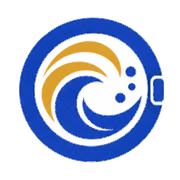
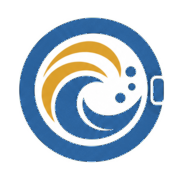
Theme: midnight and starlight (Apple-style) replaces blue and orange
Calm blue (#3A6EA5) for actions and the price, midnight header, footer and dark bands,
a warm starlight page, soft sky accents on midnight. Inter replaces Poppins for headlines.
Pill buttons without glow; phone buttons midnight. Logo, icons and share image recoloured
from the original files to the calm blue.

Changed region(s): [[0.1111, 0.0833, 0.9167, 0.9167], [0.6944, 0.3611, 0.7778, 0.5], [0.6389, 0.5, 0.6944, 0.5833]]

diff --git a/src/widgets/machine-showcase/parts.ts b/src/widgets/machine-showcase/parts.ts
@@ -9,34 +9,34 @@ export type PartId = "FW" | "FD" | "TW" | "TD" | "OP" | "GH" | "SW" | "SD";
 export const MACHINE_PARTS: Record<PartId, { viewBox: string; markup: string }> = {
   "FW": {
     "viewBox": "22 178 176 278",
-    "markup": "<rect x=\"44\" y=\"442\" width=\"22\" height=\"10\" rx=\"3\" fill=\"#2357D8\"/><rect x=\"154\" y=\"442\" width=\"22\" height=\"10\" rx=\"3\" fill=\"#2357D8\"/><path d=\"M26 210L38 182H182L194 210Z\" fill=\"#E3ECFF\" stroke=\"#2357D8\" stroke-width=\"6\" stroke-linejoin=\"round\"/><path d=\"M26 210 H194  V432 A12 12 0 0 1 182 444 H38 A12 12 0 0 1 26 432 V210  Z\" fill=\"#FFFFFF\" stroke=\"#2357D8\" stroke-width=\"6\" stroke-linejoin=\"round\"/><path d=\"M26 256H194\" fill=\"none\" stroke=\"#2357D8\" stroke-width=\"5\" stroke-linecap=\"round\"/><rect x=\"40\" y=\"222\" width=\"50\" height=\"22\" rx=\"5\" fill=\"#FFFFFF\" stroke=\"#2357D8\" stroke-width=\"4\"/><circle cx=\"120\" cy=\"233\" r=\"4\" fill=\"#2357D8\"/><circle cx=\"136\" cy=\"233\" r=\"4\" fill=\"#2357D8\"/><circle cx=\"164\" cy=\"233\" r=\"12\" fill=\"#FFC93C\" stroke=\"#2357D8\" stroke-width=\"4\"/><path d=\"M164 233V225\" stroke=\"#2357D8\" stroke-width=\"4\" stroke-linecap=\"round\"/><circle cx=\"110\" cy=\"350\" r=\"64\" fill=\"#FFFFFF\" stroke=\"#2357D8\" stroke-width=\"6\"/><circle cx=\"110\" cy=\"350\" r=\"55\" fill=\"none\" stroke=\"#FFC93C\" stroke-width=\"7\"/><circle cx=\"110\" cy=\"350\" r=\"45\" fill=\"#E3ECFF\"/><path d=\"M65.3 355.4Q76.5 345.4 87.7 355.4Q98.8 365.4 110 355.4Q121.2 345.4 132.3 355.4Q143.5 365.4 154.7 355.4A45 45 0 0 1 65.3 355.4Z\" fill=\"#C3D5FF\"/><circle cx=\"110\" cy=\"350\" r=\"45\" fill=\"none\" stroke=\"#2357D8\" stroke-width=\"4\"/><path d=\"M76.2 337.7A36 36 0 0 1 94.8 317.4\" fill=\"none\" stroke=\"#FFFFFF\" stroke-width=\"5\" stroke-linecap=\"round\"/>"
+    "markup": "<rect x=\"44\" y=\"442\" width=\"22\" height=\"10\" rx=\"3\" fill=\"#3A6EA5\"/><rect x=\"154\" y=\"442\" width=\"22\" height=\"10\" rx=\"3\" fill=\"#3A6EA5\"/><path d=\"M26 210L38 182H182L194 210Z\" fill=\"#E6EDF5\" stroke=\"#3A6EA5\" stroke-width=\"6\" stroke-linejoin=\"round\"/><path d=\"M26 210 H194  V432 A12 12 0 0 1 182 444 H38 A12 12 0 0 1 26 432 V210  Z\" fill=\"#FFFFFF\" stroke=\"#3A6EA5\" stroke-width=\"6\" stroke-linejoin=\"round\"/><path d=\"M26 256H194\" fill=\"none\" stroke=\"#3A6EA5\" stroke-width=\"5\" stroke-linecap=\"round\"/><rect x=\"40\" y=\"222\" width=\"50\" height=\"22\" rx=\"5\" fill=\"#FFFFFF\" stroke=\"#3A6EA5\" stroke-width=\"4\"/><circle cx=\"120\" cy=\"233\" r=\"4\" fill=\"#3A6EA5\"/><circle cx=\"136\" cy=\"233\" r=\"4\" fill=\"#3A6EA5\"/><circle cx=\"164\" cy=\"233\" r=\"12\" fill=\"#9CC3F5\" stroke=\"#3A6EA5\" stroke-width=\"4\"/><path d=\"M164 233V225\" stroke=\"#3A6EA5\" stroke-width=\"4\" stroke-linecap=\"round\"/><circle cx=\"110\" cy=\"350\" r=\"64\" fill=\"#FFFFFF\" stroke=\"#3A6EA5\" stroke-width=\"6\"/><circle cx=\"110\" cy=\"350\" r=\"55\" fill=\"none\" stroke=\"#9CC3F5\" stroke-width=\"7\"/><circle cx=\"110\" cy=\"350\" r=\"45\" fill=\"#E6EDF5\"/><path d=\"M65.3 355.4Q76.5 345.4 87.7 355.4Q98.8 365.4 110 355.4Q121.2 345.4 132.3 355.4Q143.5 365.4 154.7 355.4A45 45 0 0 1 65.3 355.4Z\" fill=\"#C9D8E8\"/><circle cx=\"110\" cy=\"350\" r=\"45\" fill=\"none\" stroke=\"#3A6EA5\" stroke-width=\"4\"/><path d=\"M76.2 337.7A36 36 0 0 1 94.8 317.4\" fill=\"none\" stroke=\"#FFFFFF\" stroke-width=\"5\" stroke-linecap=\"round\"/>"
   },
   "FD": {
     "viewBox": "202 178 176 278",
-    "markup": "<rect x=\"224\" y=\"442\" width=\"22\" height=\"10\" rx=\"3\" fill=\"#2357D8\"/><rect x=\"334\" y=\"442\" width=\"22\" height=\"10\" rx=\"3\" fill=\"#2357D8\"/><path d=\"M206 210L218 182H362L374 210Z\" fill=\"#E3ECFF\" stroke=\"#2357D8\" stroke-width=\"6\" stroke-linejoin=\"round\"/><path d=\"M206 210 H374  V432 A12 12 0 0 1 362 444 H218 A12 12 0 0 1 206 432 V210  Z\" fill=\"#FFFFFF\" stroke=\"#2357D8\" stroke-width=\"6\" stroke-linejoin=\"round\"/><path d=\"M206 256H374\" fill=\"none\" stroke=\"#2357D8\" stroke-width=\"5\" stroke-linecap=\"round\"/><rect x=\"220\" y=\"224\" width=\"44\" height=\"18\" rx=\"4\" fill=\"#E3ECFF\" stroke=\"#2357D8\" stroke-width=\"4\"/><circle cx=\"300\" cy=\"233\" r=\"4\" fill=\"#2357D8\"/><circle cx=\"316\" cy=\"233\" r=\"4\" fill=\"#2357D8\"/><circle cx=\"344\" cy=\"233\" r=\"12\" fill=\"#FFC93C\" stroke=\"#2357D8\" stroke-width=\"4\"/><path d=\"M344 233V225\" stroke=\"#2357D8\" stroke-width=\"4\" stroke-linecap=\"round\"/><circle cx=\"290\" cy=\"350\" r=\"64\" fill=\"#FFFFFF\" stroke=\"#2357D8\" stroke-width=\"6\"/><circle cx=\"290\" cy=\"350\" r=\"55\" fill=\"none\" stroke=\"#FFC93C\" stroke-width=\"7\"/><circle cx=\"290\" cy=\"350\" r=\"45\" fill=\"#E3ECFF\"/><circle cx=\"290\" cy=\"350\" r=\"45\" fill=\"none\" stroke=\"#2357D8\" stroke-width=\"4\"/><path d=\"M256.2 337.7A36 36 0 0 1 274.8 317.4\" fill=\"none\" stroke=\"#FFFFFF\" stroke-width=\"5\" stroke-linecap=\"round\"/>"
+    "markup": "<rect x=\"224\" y=\"442\" width=\"22\" height=\"10\" rx=\"3\" fill=\"#3A6EA5\"/><rect x=\"334\" y=\"442\" width=\"22\" height=\"10\" rx=\"3\" fill=\"#3A6EA5\"/><path d=\"M206 210L218 182H362L374 210Z\" fill=\"#E6EDF5\" stroke=\"#3A6EA5\" stroke-width=\"6\" stroke-linejoin=\"round\"/><path d=\"M206 210 H374  V432 A12 12 0 0 1 362 444 H218 A12 12 0 0 1 206 432 V210  Z\" fill=\"#FFFFFF\" stroke=\"#3A6EA5\" stroke-width=\"6\" stroke-linejoin=\"round\"/><path d=\"M206 256H374\" fill=\"none\" stroke=\"#3A6EA5\" stroke-width=\"5\" stroke-linecap=\"round\"/><rect x=\"220\" y=\"224\" width=\"44\" height=\"18\" rx=\"4\" fill=\"#E6EDF5\" stroke=\"#3A6EA5\" stroke-width=\"4\"/><circle cx=\"300\" cy=\"233\" r=\"4\" fill=\"#3A6EA5\"/><circle cx=\"316\" cy=\"233\" r=\"4\" fill=\"#3A6EA5\"/><circle cx=\"344\" cy=\"233\" r=\"12\" fill=\"#9CC3F5\" stroke=\"#3A6EA5\" stroke-width=\"4\"/><path d=\"M344 233V225\" stroke=\"#3A6EA5\" stroke-width=\"4\" stroke-linecap=\"round\"/><circle cx=\"290\" cy=\"350\" r=\"64\" fill=\"#FFFFFF\" stroke=\"#3A6EA5\" stroke-width=\"6\"/><circle cx=\"290\" cy=\"350\" r=\"55\" fill=\"none\" stroke=\"#9CC3F5\" stroke-width=\"7\"/><circle cx=\"290\" cy=\"350\" r=\"45\" fill=\"#E6EDF5\"/><circle cx=\"290\" cy=\"350\" r=\"45\" fill=\"none\" stroke=\"#3A6EA5\" stroke-width=\"4\"/><path d=\"M256.2 337.7A36 36 0 0 1 274.8 317.4\" fill=\"none\" stroke=\"#FFFFFF\" stroke-width=\"5\" stroke-linecap=\"round\"/>"
   },
   "TW": {
     "viewBox": "22 144 176 312",
-    "markup": "<rect x=\"44\" y=\"442\" width=\"22\" height=\"10\" rx=\"3\" fill=\"#2357D8\"/><rect x=\"154\" y=\"442\" width=\"22\" height=\"10\" rx=\"3\" fill=\"#2357D8\"/><path d=\"M38 202V158A10 10 0 0 1 48 148H172A10 10 0 0 1 182 158V202Z\" fill=\"#FFFFFF\" stroke=\"#2357D8\" stroke-width=\"6\" stroke-linejoin=\"round\"/><rect x=\"52\" y=\"166\" width=\"44\" height=\"18\" rx=\"4\" fill=\"#E3ECFF\" stroke=\"#2357D8\" stroke-width=\"4\"/><circle cx=\"120\" cy=\"175\" r=\"4\" fill=\"#2357D8\"/><circle cx=\"152\" cy=\"175\" r=\"12\" fill=\"#FFC93C\" stroke=\"#2357D8\" stroke-width=\"4\"/><path d=\"M152 175V167\" stroke=\"#2357D8\" stroke-width=\"4\" stroke-linecap=\"round\"/><path d=\"M26 232L38 202H182L194 232Z\" fill=\"#E3ECFF\" stroke=\"#2357D8\" stroke-width=\"6\" stroke-linejoin=\"round\"/><path d=\"M50 226L58 208H162L170 226Z\" fill=\"#FFFFFF\" stroke=\"#2357D8\" stroke-width=\"4\" stroke-linejoin=\"round\"/><rect x=\"94\" y=\"221\" width=\"32\" height=\"8\" rx=\"4\" fill=\"#FFC93C\" stroke=\"#2357D8\" stroke-width=\"3\"/><path d=\"M26 232 H194  V432 A12 12 0 0 1 182 444 H38 A12 12 0 0 1 26 432 V232  Z\" fill=\"#FFFFFF\" stroke=\"#2357D8\" stroke-width=\"6\" stroke-linejoin=\"round\"/><path d=\"M42 418H178\" fill=\"none\" stroke=\"#2357D8\" stroke-width=\"4\" stroke-linecap=\"round\"/>"
+    "markup": "<rect x=\"44\" y=\"442\" width=\"22\" height=\"10\" rx=\"3\" fill=\"#3A6EA5\"/><rect x=\"154\" y=\"442\" width=\"22\" height=\"10\" rx=\"3\" fill=\"#3A6EA5\"/><path d=\"M38 202V158A10 10 0 0 1 48 148H172A10 10 0 0 1 182 158V202Z\" fill=\"#FFFFFF\" stroke=\"#3A6EA5\" stroke-width=\"6\" stroke-linejoin=\"round\"/><rect x=\"52\" y=\"166\" width=\"44\" height=\"18\" rx=\"4\" fill=\"#E6EDF5\" stroke=\"#3A6EA5\" stroke-width=\"4\"/><circle cx=\"120\" cy=\"175\" r=\"4\" fill=\"#3A6EA5\"/><circle cx=\"152\" cy=\"175\" r=\"12\" fill=\"#9CC3F5\" stroke=\"#3A6EA5\" stroke-width=\"4\"/><path d=\"M152 175V167\" stroke=\"#3A6EA5\" stroke-width=\"4\" stroke-linecap=\"round\"/><path d=\"M26 232L38 202H182L194 232Z\" fill=\"#E6EDF5\" stroke=\"#3A6EA5\" stroke-width=\"6\" stroke-linejoin=\"round\"/><path d=\"M50 226L58 208H162L170 226Z\" fill=\"#FFFFFF\" stroke=\"#3A6EA5\" stroke-width=\"4\" stroke-linejoin=\"round\"/><rect x=\"94\" y=\"221\" width=\"32\" height=\"8\" rx=\"4\" fill=\"#9CC3F5\" stroke=\"#3A6EA5\" stroke-width=\"3\"/><path d=\"M26 232 H194  V432 A12 12 0 0 1 182 444 H38 A12 12 0 0 1 26 432 V232  Z\" fill=\"#FFFFFF\" stroke=\"#3A6EA5\" stroke-width=\"6\" stroke-linejoin=\"round\"/><path d=\"M42 418H178\" fill=\"none\" stroke=\"#3A6EA5\" stroke-width=\"4\" stroke-linecap=\"round\"/>"
   },
   "TD": {
     "viewBox": "202 144 176 312",
-    "markup": "<rect x=\"224\" y=\"442\" width=\"22\" height=\"10\" rx=\"3\" fill=\"#2357D8\"/><rect x=\"334\" y=\"442\" width=\"22\" height=\"10\" rx=\"3\" fill=\"#2357D8\"/><path d=\"M218 202V158A10 10 0 0 1 228 148H352A10 10 0 0 1 362 158V202Z\" fill=\"#FFFFFF\" stroke=\"#2357D8\" stroke-width=\"6\" stroke-linejoin=\"round\"/><circle cx=\"248\" cy=\"175\" r=\"12\" fill=\"#FFC93C\" stroke=\"#2357D8\" stroke-width=\"4\"/><path d=\"M248 175V167\" stroke=\"#2357D8\" stroke-width=\"4\" stroke-linecap=\"round\"/><circle cx=\"280\" cy=\"175\" r=\"4\" fill=\"#2357D8\"/><circle cx=\"296\" cy=\"175\" r=\"4\" fill=\"#2357D8\"/><path d=\"M206 232L218 202H362L374 232Z\" fill=\"#E3ECFF\" stroke=\"#2357D8\" stroke-width=\"6\" stroke-linejoin=\"round\"/><path d=\"M206 232 H374  V432 A12 12 0 0 1 362 444 H218 A12 12 0 0 1 206 432 V232  Z\" fill=\"#FFFFFF\" stroke=\"#2357D8\" stroke-width=\"6\" stroke-linejoin=\"round\"/><rect x=\"224\" y=\"258\" width=\"132\" height=\"142\" rx=\"20\" fill=\"#FFFFFF\" stroke=\"#2357D8\" stroke-width=\"6\"/><rect x=\"240\" y=\"273\" width=\"100\" height=\"102\" rx=\"13\" fill=\"#E3ECFF\" stroke=\"#2357D8\" stroke-width=\"4\"/><path d=\"M254 307L272 289M254 327L292 289\" stroke=\"#FFFFFF\" stroke-width=\"5\" stroke-linecap=\"round\"/><rect x=\"272\" y=\"383\" width=\"36\" height=\"8\" rx=\"4\" fill=\"#FFC93C\" stroke=\"#2357D8\" stroke-width=\"3\"/><path d=\"M222 418H358\" fill=\"none\" stroke=\"#2357D8\" stroke-width=\"4\" stroke-linecap=\"round\"/>"
+    "markup": "<rect x=\"224\" y=\"442\" width=\"22\" height=\"10\" rx=\"3\" fill=\"#3A6EA5\"/><rect x=\"334\" y=\"442\" width=\"22\" height=\"10\" rx=\"3\" fill=\"#3A6EA5\"/><path d=\"M218 202V158A10 10 0 0 1 228 148H352A10 10 0 0 1 362 158V202Z\" fill=\"#FFFFFF\" stroke=\"#3A6EA5\" stroke-width=\"6\" stroke-linejoin=\"round\"/><circle cx=\"248\" cy=\"175\" r=\"12\" fill=\"#9CC3F5\" stroke=\"#3A6EA5\" stroke-width=\"4\"/><path d=\"M248 175V167\" stroke=\"#3A6EA5\" stroke-width=\"4\" stroke-linecap=\"round\"/><circle cx=\"280\" cy=\"175\" r=\"4\" fill=\"#3A6EA5\"/><circle cx=\"296\" cy=\"175\" r=\"4\" fill=\"#3A6EA5\"/><path d=\"M206 232L218 202H362L374 232Z\" fill=\"#E6EDF5\" stroke=\"#3A6EA5\" stroke-width=\"6\" stroke-linejoin=\"round\"/><path d=\"M206 232 H374  V432 A12 12 0 0 1 362 444 H218 A12 12 0 0 1 206 432 V232  Z\" fill=\"#FFFFFF\" stroke=\"#3A6EA5\" stroke-width=\"6\" stroke-linejoin=\"round\"/><rect x=\"224\" y=\"258\" width=\"132\" height=\"142\" rx=\"20\" fill=\"#FFFFFF\" stroke=\"#3A6EA5\" stroke-width=\"6\"/><rect x=\"240\" y=\"273\" width=\"100\" height=\"102\" rx=\"13\" fill=\"#E6EDF5\" stroke=\"#3A6EA5\" stroke-width=\"4\"/><path d=\"M254 307L272 289M254 327L292 289\" stroke=\"#FFFFFF\" stroke-width=\"5\" stroke-linecap=\"round\"/><rect x=\"272\" y=\"383\" width=\"36\" height=\"8\" rx=\"4\" fill=\"#9CC3F5\" stroke=\"#3A6EA5\" stroke-width=\"3\"/><path d=\"M222 418H358\" fill=\"none\" stroke=\"#3A6EA5\" stroke-width=\"4\" stroke-linecap=\"round\"/>"
   },
   "OP": {
     "viewBox": "96 16 208 440",
-    "markup": "<rect x=\"118\" y=\"442\" width=\"22\" height=\"10\" rx=\"3\" fill=\"#2357D8\"/><rect x=\"260\" y=\"442\" width=\"22\" height=\"10\" rx=\"3\" fill=\"#2357D8\"/><path d=\"M100 42L112 20H288L300 42Z\" fill=\"#E3ECFF\" stroke=\"#2357D8\" stroke-width=\"6\" stroke-linejoin=\"round\"/><path d=\"M100 42 H300  V432 A12 12 0 0 1 288 444 H112 A12 12 0 0 1 100 432 V42  Z\" fill=\"#FFFFFF\" stroke=\"#2357D8\" stroke-width=\"6\" stroke-linejoin=\"round\"/><path d=\"M100 92H300\" fill=\"none\" stroke=\"#2357D8\" stroke-width=\"5\" stroke-linecap=\"round\"/><circle cx=\"130\" cy=\"67\" r=\"12\" fill=\"#FFC93C\" stroke=\"#2357D8\" stroke-width=\"4\"/><path d=\"M130 67V59\" stroke=\"#2357D8\" stroke-width=\"4\" stroke-linecap=\"round\"/><rect x=\"172\" y=\"58\" width=\"56\" height=\"18\" rx=\"4\" fill=\"#E3ECFF\" stroke=\"#2357D8\" stroke-width=\"4\"/><circle cx=\"270\" cy=\"67\" r=\"12\" fill=\"#FFC93C\" stroke=\"#2357D8\" stroke-width=\"4\"/><path d=\"M270 67V59\" stroke=\"#2357D8\" stroke-width=\"4\" stroke-linecap=\"round\"/><rect x=\"120\" y=\"106\" width=\"160\" height=\"140\" rx=\"20\" fill=\"#FFFFFF\" stroke=\"#2357D8\" stroke-width=\"6\"/><rect x=\"136\" y=\"121\" width=\"128\" height=\"100\" rx=\"13\" fill=\"#E3ECFF\" stroke=\"#2357D8\" stroke-width=\"4\"/><path d=\"M150 155L168 137M150 175L188 137\" stroke=\"#FFFFFF\" stroke-width=\"5\" stroke-linecap=\"round\"/><rect x=\"182\" y=\"229\" width=\"36\" height=\"8\" rx=\"4\" fill=\"#FFC93C\" stroke=\"#2357D8\" stroke-width=\"3\"/><rect x=\"118\" y=\"262\" width=\"164\" height=\"50\" rx=\"10\" fill=\"#C3D5FF\" stroke=\"#2357D8\" stroke-width=\"5\"/><path d=\"M130 302L144 274H256L270 302Z\" fill=\"#FFFFFF\" stroke=\"#2357D8\" stroke-width=\"4\" stroke-linejoin=\"round\"/><rect x=\"182\" y=\"298\" width=\"36\" height=\"8\" rx=\"4\" fill=\"#FFC93C\" stroke=\"#2357D8\" stroke-width=\"3\"/><path d=\"M116 418H284\" fill=\"none\" stroke=\"#2357D8\" stroke-width=\"4\" stroke-linecap=\"round\"/>"
+    "markup": "<rect x=\"118\" y=\"442\" width=\"22\" height=\"10\" rx=\"3\" fill=\"#3A6EA5\"/><rect x=\"260\" y=\"442\" width=\"22\" height=\"10\" rx=\"3\" fill=\"#3A6EA5\"/><path d=\"M100 42L112 20H288L300 42Z\" fill=\"#E6EDF5\" stroke=\"#3A6EA5\" stroke-width=\"6\" stroke-linejoin=\"round\"/><path d=\"M100 42 H300  V432 A12 12 0 0 1 288 444 H112 A12 12 0 0 1 100 432 V42  Z\" fill=\"#FFFFFF\" stroke=\"#3A6EA5\" stroke-width=\"6\" stroke-linejoin=\"round\"/><path d=\"M100 92H300\" fill=\"none\" stroke=\"#3A6EA5\" stroke-width=\"5\" stroke-linecap=\"round\"/><circle cx=\"130\" cy=\"67\" r=\"12\" fill=\"#9CC3F5\" stroke=\"#3A6EA5\" stroke-width=\"4\"/><path d=\"M130 67V59\" stroke=\"#3A6EA5\" stroke-width=\"4\" stroke-linecap=\"round\"/><rect x=\"172\" y=\"58\" width=\"56\" height=\"18\" rx=\"4\" fill=\"#E6EDF5\" stroke=\"#3A6EA5\" stroke-width=\"4\"/><circle cx=\"270\" cy=\"67\" r=\"12\" fill=\"#9CC3F5\" stroke=\"#3A6EA5\" stroke-width=\"4\"/><path d=\"M270 67V59\" stroke=\"#3A6EA5\" stroke-width=\"4\" stroke-linecap=\"round\"/><rect x=\"120\" y=\"106\" width=\"160\" height=\"140\" rx=\"20\" fill=\"#FFFFFF\" stroke=\"#3A6EA5\" stroke-width=\"6\"/><rect x=\"136\" y=\"121\" width=\"128\" height=\"100\" rx=\"13\" fill=\"#E6EDF5\" stroke=\"#3A6EA5\" stroke-width=\"4\"/><path d=\"M150 155L168 137M150 175L188 137\" stroke=\"#FFFFFF\" stroke-width=\"5\" stroke-linecap=\"round\"/><rect x=\"182\" y=\"229\" width=\"36\" height=\"8\" rx=\"4\" fill=\"#9CC3F5\" stroke=\"#3A6EA5\" stroke-width=\"3\"/><rect x=\"118\" y=\"262\" width=\"164\" height=\"50\" rx=\"10\" fill=\"#C9D8E8\" stroke=\"#3A6EA5\" stroke-width=\"5\"/><path d=\"M130 302L144 274H256L270 302Z\" fill=\"#FFFFFF\" stroke=\"#3A6EA5\" stroke-width=\"4\" stroke-linejoin=\"round\"/><rect x=\"182\" y=\"298\" width=\"36\" height=\"8\" rx=\"4\" fill=\"#9CC3F5\" stroke=\"#3A6EA5\" stroke-width=\"3\"/><path d=\"M116 418H284\" fill=\"none\" stroke=\"#3A6EA5\" stroke-width=\"4\" stroke-linecap=\"round\"/>"
   },
   "GH": {
     "viewBox": "202 178 176 270",
-    "markup": "<path d=\"M206 210L218 182H362L374 210\" stroke=\"#2357D8\" stroke-opacity=\"0.45\" stroke-width=\"4\" stroke-dasharray=\"10 10\" stroke-linecap=\"round\" stroke-linejoin=\"round\"/><rect x=\"206\" y=\"210\" width=\"168\" height=\"234\" rx=\"12\" stroke=\"#2357D8\" stroke-opacity=\"0.45\" stroke-width=\"4\" stroke-dasharray=\"10 10\" stroke-linecap=\"round\"/><path d=\"M206 256H374\" stroke=\"#2357D8\" stroke-opacity=\"0.45\" stroke-width=\"4\" stroke-dasharray=\"10 10\" stroke-linecap=\"round\"/><circle cx=\"290\" cy=\"350\" r=\"64\" stroke=\"#2357D8\" stroke-opacity=\"0.45\" stroke-width=\"4\" stroke-dasharray=\"10 10\" stroke-linecap=\"round\"/>"
+    "markup": "<path d=\"M206 210L218 182H362L374 210\" stroke=\"#3A6EA5\" stroke-opacity=\"0.45\" stroke-width=\"4\" stroke-dasharray=\"10 10\" stroke-linecap=\"round\" stroke-linejoin=\"round\"/><rect x=\"206\" y=\"210\" width=\"168\" height=\"234\" rx=\"12\" stroke=\"#3A6EA5\" stroke-opacity=\"0.45\" stroke-width=\"4\" stroke-dasharray=\"10 10\" stroke-linecap=\"round\"/><path d=\"M206 256H374\" stroke=\"#3A6EA5\" stroke-opacity=\"0.45\" stroke-width=\"4\" stroke-dasharray=\"10 10\" stroke-linecap=\"round\"/><circle cx=\"290\" cy=\"350\" r=\"64\" stroke=\"#3A6EA5\" stroke-opacity=\"0.45\" stroke-width=\"4\" stroke-dasharray=\"10 10\" stroke-linecap=\"round\"/>"
   },
   "SW": {
     "viewBox": "96 244 208 212",
-    "markup": "<rect x=\"118\" y=\"442\" width=\"22\" height=\"10\" rx=\"3\" fill=\"#2357D8\"/><rect x=\"260\" y=\"442\" width=\"22\" height=\"10\" rx=\"3\" fill=\"#2357D8\"/><path d=\"M112 248 H288 A12 12 0 0 1 300 260 V432 A12 12 0 0 1 288 444 H112 A12 12 0 0 1 100 432 V260 A12 12 0 0 1 112 248 Z\" fill=\"#FFFFFF\" stroke=\"#2357D8\" stroke-width=\"6\" stroke-linejoin=\"round\"/><path d=\"M100 294H300\" fill=\"none\" stroke=\"#2357D8\" stroke-width=\"5\" stroke-linecap=\"round\"/><rect x=\"114\" y=\"260\" width=\"58\" height=\"22\" rx=\"5\" fill=\"#FFFFFF\" stroke=\"#2357D8\" stroke-width=\"4\"/><circle cx=\"226\" cy=\"271\" r=\"4\" fill=\"#2357D8\"/><circle cx=\"242\" cy=\"271\" r=\"4\" fill=\"#2357D8\"/><circle cx=\"270\" cy=\"271\" r=\"12\" fill=\"#FFC93C\" stroke=\"#2357D8\" stroke-width=\"4\"/><path d=\"M270 271V263\" stroke=\"#2357D8\" stroke-width=\"4\" stroke-linecap=\"round\"/><circle cx=\"200\" cy=\"369\" r=\"57\" fill=\"#FFFFFF\" stroke=\"#2357D8\" stroke-width=\"6\"/><circle cx=\"200\" cy=\"369\" r=\"48\" fill=\"none\" stroke=\"#FFC93C\" stroke-width=\"7\"/><circle cx=\"200\" cy=\"369\" r=\"38\" fill=\"#E3ECFF\"/><path d=\"M162.3 373.6Q171.7 363.6 181.1 373.6Q190.6 383.6 200 373.6Q209.4 363.6 218.9 373.6Q228.3 383.6 237.7 373.6A38 38 0 0 1 162.3 373.6Z\" fill=\"#C3D5FF\"/><circle cx=\"200\" cy=\"369\" r=\"38\" fill=\"none\" stroke=\"#2357D8\" stroke-width=\"4\"/><path d=\"M172.7 359.1A29 29 0 0 1 187.7 342.7\" fill=\"none\" stroke=\"#FFFFFF\" stroke-width=\"5\" stroke-linecap=\"round\"/>"
+    "markup": "<rect x=\"118\" y=\"442\" width=\"22\" height=\"10\" rx=\"3\" fill=\"#3A6EA5\"/><rect x=\"260\" y=\"442\" width=\"22\" height=\"10\" rx=\"3\" fill=\"#3A6EA5\"/><path d=\"M112 248 H288 A12 12 0 0 1 300 260 V432 A12 12 0 0 1 288 444 H112 A12 12 0 0 1 100 432 V260 A12 12 0 0 1 112 248 Z\" fill=\"#FFFFFF\" stroke=\"#3A6EA5\" stroke-width=\"6\" stroke-linejoin=\"round\"/><path d=\"M100 294H300\" fill=\"none\" stroke=\"#3A6EA5\" stroke-width=\"5\" stroke-linecap=\"round\"/><rect x=\"114\" y=\"260\" width=\"58\" height=\"22\" rx=\"5\" fill=\"#FFFFFF\" stroke=\"#3A6EA5\" stroke-width=\"4\"/><circle cx=\"226\" cy=\"271\" r=\"4\" fill=\"#3A6EA5\"/><circle cx=\"242\" cy=\"271\" r=\"4\" fill=\"#3A6EA5\"/><circle cx=\"270\" cy=\"271\" r=\"12\" fill=\"#9CC3F5\" stroke=\"#3A6EA5\" stroke-width=\"4\"/><path d=\"M270 271V263\" stroke=\"#3A6EA5\" stroke-width=\"4\" stroke-linecap=\"round\"/><circle cx=\"200\" cy=\"369\" r=\"57\" fill=\"#FFFFFF\" stroke=\"#3A6EA5\" stroke-width=\"6\"/><circle cx=\"200\" cy=\"369\" r=\"48\" fill=\"none\" stroke=\"#9CC3F5\" stroke-width=\"7\"/><circle cx=\"200\" cy=\"369\" r=\"38\" fill=\"#E6EDF5\"/><path d=\"M162.3 373.6Q171.7 363.6 181.1 373.6Q190.6 383.6 200 373.6Q209.4 363.6 218.9 373.6Q228.3 383.6 237.7 373.6A38 38 0 0 1 162.3 373.6Z\" fill=\"#C9D8E8\"/><circle cx=\"200\" cy=\"369\" r=\"38\" fill=\"none\" stroke=\"#3A6EA5\" stroke-width=\"4\"/><path d=\"M172.7 359.1A29 29 0 0 1 187.7 342.7\" fill=\"none\" stroke=\"#FFFFFF\" stroke-width=\"5\" stroke-linecap=\"round\"/>"
   },
   "SD": {
     "viewBox": "96 16 208 226",
-    "markup": "<path d=\"M100 42L112 20H288L300 42Z\" fill=\"#E3ECFF\" stroke=\"#2357D8\" stroke-width=\"6\" stroke-linejoin=\"round\"/><path d=\"M100 42 H300  V226 A12 12 0 0 1 288 238 H112 A12 12 0 0 1 100 226 V42  Z\" fill=\"#FFFFFF\" stroke=\"#2357D8\" stroke-width=\"6\" stroke-linejoin=\"round\"/><path d=\"M100 88H300\" fill=\"none\" stroke=\"#2357D8\" stroke-width=\"5\" stroke-linecap=\"round\"/><rect x=\"114\" y=\"56\" width=\"50\" height=\"18\" rx=\"4\" fill=\"#E3ECFF\" stroke=\"#2357D8\" stroke-width=\"4\"/><circle cx=\"226\" cy=\"65\" r=\"4\" fill=\"#2357D8\"/><circle cx=\"242\" cy=\"65\" r=\"4\" fill=\"#2357D8\"/><circle cx=\"270\" cy=\"65\" r=\"12\" fill=\"#FFC93C\" stroke=\"#2357D8\" stroke-width=\"4\"/><path d=\"M270 65V57\" stroke=\"#2357D8\" stroke-width=\"4\" stroke-linecap=\"round\"/><circle cx=\"200\" cy=\"163\" r=\"57\" fill=\"#FFFFFF\" stroke=\"#2357D8\" stroke-width=\"6\"/><circle cx=\"200\" cy=\"163\" r=\"48\" fill=\"none\" stroke=\"#FFC93C\" stroke-width=\"7\"/><circle cx=\"200\" cy=\"163\" r=\"38\" fill=\"#E3ECFF\"/><circle cx=\"200\" cy=\"163\" r=\"38\" fill=\"none\" stroke=\"#2357D8\" stroke-width=\"4\"/><path d=\"M172.7 153.1A29 29 0 0 1 187.7 136.7\" fill=\"none\" stroke=\"#FFFFFF\" stroke-width=\"5\" stroke-linecap=\"round\"/>"
+    "markup": "<path d=\"M100 42L112 20H288L300 42Z\" fill=\"#E6EDF5\" stroke=\"#3A6EA5\" stroke-width=\"6\" stroke-linejoin=\"round\"/><path d=\"M100 42 H300  V226 A12 12 0 0 1 288 238 H112 A12 12 0 0 1 100 226 V42  Z\" fill=\"#FFFFFF\" stroke=\"#3A6EA5\" stroke-width=\"6\" stroke-linejoin=\"round\"/><path d=\"M100 88H300\" fill=\"none\" stroke=\"#3A6EA5\" stroke-width=\"5\" stroke-linecap=\"round\"/><rect x=\"114\" y=\"56\" width=\"50\" height=\"18\" rx=\"4\" fill=\"#E6EDF5\" stroke=\"#3A6EA5\" stroke-width=\"4\"/><circle cx=\"226\" cy=\"65\" r=\"4\" fill=\"#3A6EA5\"/><circle cx=\"242\" cy=\"65\" r=\"4\" fill=\"#3A6EA5\"/><circle cx=\"270\" cy=\"65\" r=\"12\" fill=\"#9CC3F5\" stroke=\"#3A6EA5\" stroke-width=\"4\"/><path d=\"M270 65V57\" stroke=\"#3A6EA5\" stroke-width=\"4\" stroke-linecap=\"round\"/><circle cx=\"200\" cy=\"163\" r=\"57\" fill=\"#FFFFFF\" stroke=\"#3A6EA5\" stroke-width=\"6\"/><circle cx=\"200\" cy=\"163\" r=\"48\" fill=\"none\" stroke=\"#9CC3F5\" stroke-width=\"7\"/><circle cx=\"200\" cy=\"163\" r=\"38\" fill=\"#E6EDF5\"/><circle cx=\"200\" cy=\"163\" r=\"38\" fill=\"none\" stroke=\"#3A6EA5\" stroke-width=\"4\"/><path d=\"M172.7 153.1A29 29 0 0 1 187.7 136.7\" fill=\"none\" stroke=\"#FFFFFF\" stroke-width=\"5\" stroke-linecap=\"round\"/>"
   }
 };

diff --git a/src/widgets/header/ui/Header.tsx b/src/widgets/header/ui/Header.tsx
@@ -128,8 +128,8 @@ export function Header({ currentPath = "/", requestHref = pagePaths.start }: { c
       </div>
 
       <header
-        className={`sticky top-0 z-40 border-b bg-paper/95 backdrop-blur-md transition-shadow duration-200 ${
-          scrolled ? "border-transparent shadow-[0_6px_20px_-12px_rgb(16_42_110/0.30)]" : "border-line"
+        className={`on-dark sticky top-0 z-40 border-b border-white/10 bg-brand-dark/95 text-white backdrop-blur-md transition-shadow duration-200 ${
+          scrolled ? "shadow-[0_6px_20px_-10px_rgb(0_0_0/0.45)]" : ""
         }`}
       >
         <Container
@@ -142,12 +142,12 @@ export function Header({ currentPath = "/", requestHref = pagePaths.start }: { c
             onClick={closeMenu}
             className="flex min-w-0 items-center gap-3 rounded-xl"
           >
-            <Logo className={`transition-[width,height] duration-200 motion-reduce:transition-none ${scrolled ? "h-9 w-9" : "h-11 w-11"}`} />
+            <Logo className={`rounded-full bg-white p-0.5 transition-[width,height] duration-200 motion-reduce:transition-none ${scrolled ? "h-9 w-9" : "h-11 w-11"}`} />
             {/* The logo's alt text already names the business for screen readers. */}
             {/* Hidden from 1024 to 1279px, where the menu and both buttons need the room. */}
             <span
               aria-hidden="true"
-              className="font-display text-[15px] font-bold leading-tight tracking-tight text-ink sm:text-[1.0625rem] lg:hidden xl:block"
+              className="font-display text-[15px] font-bold leading-tight tracking-tight text-white sm:text-[1.0625rem] lg:hidden xl:block"
             >
               {siteConfig.companyName}
             </span>
@@ -162,8 +162,8 @@ export function Header({ currentPath = "/", requestHref = pagePaths.start }: { c
                     <LangLink
                       href={link.href}
                       aria-current={current}
-                      className={`whitespace-nowrap rounded-full px-3 py-2 text-[15px] font-medium transition-colors hover:bg-brand-mint hover:text-brand-dark ${
-                        current ? "bg-brand-mint text-brand-dark" : "text-ink-soft"
+                      className={`whitespace-nowrap rounded-full px-3 py-2 text-[15px] font-medium transition-colors hover:bg-white/10 hover:text-white ${
+                        current ? "bg-white/15 text-white" : "text-white/80"
                       }`}
                     >
                       {d.nav[link.key]}
@@ -180,7 +180,7 @@ export function Header({ currentPath = "/", requestHref = pagePaths.start }: { c
             <a
               href={phone.tel}
               aria-label={d.header.callAria}
-              className="hidden h-11 min-w-[2.75rem] items-center justify-center gap-2 rounded-full border border-line bg-white px-3 font-display text-[15px] font-semibold text-brand transition-colors hover:bg-brand-mint md:inline-flex lg:border-transparent lg:bg-transparent"
+              className="hidden h-11 min-w-[2.75rem] items-center justify-center gap-2 rounded-full border border-white/25 px-3 font-display text-[15px] font-semibold text-white transition-colors hover:bg-white/10 md:inline-flex lg:border-transparent"
             >
               <Phone className="h-[18px] w-[18px]" aria-hidden="true" />
               <span className="hidden whitespace-nowrap lg:inline">{phone.display}</span>
@@ -195,7 +195,7 @@ export function Header({ currentPath = "/", requestHref = pagePaths.start }: { c
               aria-expanded={menuOpen}
               aria-controls="mobile-menu"
               aria-label={menuOpen ? d.header.closeMenu : d.header.openMenu}
-              className="inline-flex h-11 w-11 items-center justify-center rounded-full border border-line bg-white text-ink transition-colors hover:bg-brand-mint lg:hidden"
+              className="inline-flex h-11 w-11 items-center justify-center rounded-full border border-white/25 text-white transition-colors hover:bg-white/10 lg:hidden"
             >
               {menuOpen ? (
                 <X className="h-5 w-5" aria-hidden="true" />

diff --git a/tailwind.config.ts b/tailwind.config.ts
@@ -7,31 +7,32 @@ export default {
   theme: {
     extend: {
       colors: {
-        // GTA Washer & Dryer Rentals: trustworthy blue for the brand, sunny orange for every
-        // "do it now" button, a warm white page. (The names brand/mint/gold are kept from the
-        // first, green theme so every component keeps working; only the values changed.)
+        // GTA Washer & Dryer Rentals, "midnight and starlight": a calm blue for every action, midnight
+        // for the header and dark bands, a warm starlight page. Apple-like: quiet colour, white
+        // cards, the photos do the work. (The names brand/mint/gold/action are kept from earlier
+        // themes so every component keeps working; only the values changed.)
         brand: {
-          DEFAULT: "#2357D8", // royal blue, primary (6.5:1 on white)
-          dark: "#102A6E", // navy: footer, text on tints
-          mint: "#EAF1FF", // light blue tint for panels
-          "mint-strong": "#D3E2FF",
+          DEFAULT: "#3A6EA5", // calm blue: buttons, links, the price (5.4:1 on white)
+          dark: "#232A35", // midnight: header, footer, dark bands
+          mint: "#EDE6DA", // starlight tint for panels
+          "mint-strong": "#E0D6C5",
         },
-        // The call-to-action colour: orange buttons with navy text (5:1).
+        // The call-to-action colour: the same calm blue, white text.
         action: {
-          DEFAULT: "#FF7A1A",
-          light: "#FF8F3D", // hover: lighter, so the navy text keeps its contrast
+          DEFAULT: "#3A6EA5",
+          light: "#2F5C8C", // hover: a shade deeper
         },
         gold: {
-          DEFAULT: "#FFC93C", // sunshine accent: badges, icons on blue; never as text on light
-          dark: "#F5B521",
+          DEFAULT: "#9CC3F5", // soft sky: icons and badges on midnight; never as text on light
+          dark: "#86B3EC",
         },
-        paper: "#FFFBF5", // page background, warm white
+        paper: "#F4EEE4", // page background, starlight
         ink: {
-          DEFAULT: "#141B33", // body text, navy-black
-          soft: "#3C4560",
-          muted: "#5D6680", // small print, 5.8:1 on paper
+          DEFAULT: "#1F2530", // body text
+          soft: "#4A505B",
+          muted: "#5C5F66", // small print, 5.7:1 on the page
         },
-        line: "#E9E3D8", // hairlines and card borders
+        line: "#E2D9CB", // hairlines and card borders
       },
       fontFamily: {
         sans: [
@@ -42,7 +43,7 @@ export default {
           "Segoe UI",
           "sans-serif",
         ],
-        display: ["Poppins", "Inter", "system-ui", "sans-serif"],
+        display: ["Inter", "system-ui", "-apple-system", "sans-serif"],
       },
       keyframes: {
         "rise-in": {

diff --git a/src/widgets/how-it-works/index.tsx b/src/widgets/how-it-works/index.tsx
@@ -1,7 +1,7 @@
 import { useI18n } from "~/shared/i18n";
 import { Container, CtaRow, FileText, Heading, Nest, Ruler, Section, Truck, Wrench, type LucideIcon } from "~/shared/ui";
 
-// The four steps of renting, on the blue band (home, city and machine pages): one icon
+// The four steps of renting, on the midnight band (home, city and machine pages): one icon
 // and a few words each. The details are on the FAQ page.
 const STEP_ICONS: LucideIcon[] = [Ruler, FileText, Truck, Wrench];
 
@@ -9,7 +9,7 @@ export function HowItWorks() {
   const { d } = useI18n();
   const { steps } = d.home.how;
   return (
-    <Section id="how" aria-labelledby="how-title" className="on-dark bg-brand text-white">
+    <Section id="how" aria-labelledby="how-title" className="on-dark bg-brand-dark text-white">
       <Container>
         <Heading id="how-title" className="text-white">
           {d.common.howItWorks}
@@ -24,7 +24,7 @@ export function HowItWorks() {
                   <Icon className="h-9 w-9 text-gold sm:h-11 sm:w-11" aria-hidden="true" />
                   <span
                     aria-hidden="true"
-                    className="absolute -right-1 -top-1 flex h-7 w-7 items-center justify-center rounded-full bg-gold font-display text-sm font-bold text-brand"
+                    className="absolute -right-1 -top-1 flex h-7 w-7 items-center justify-center rounded-full bg-gold font-display text-sm font-bold text-brand-dark"
                   >
                     {index + 1}
                   </span>

diff --git a/src/app/app.css b/src/app/app.css
@@ -32,7 +32,7 @@
     outline-offset: 3px;
   }
 
-  /* Blue and navy sections: a sunshine ring stays visible there */
+  /* Midnight and blue sections: a sky ring stays visible there */
   .on-dark :focus-visible {
     outline-color: theme("colors.gold.DEFAULT");
   }
@@ -88,14 +88,14 @@
     @apply active:scale-[0.98];
   }
 
-  /* The main call to action: sunny orange, navy text, a soft orange glow */
+  /* The main call to action: calm blue pill, white text */
   .btn-primary {
-    @apply bg-action text-brand-dark shadow-[0_8px_20px_-8px_rgb(255_122_26/0.7)] hover:bg-action-light hover:shadow-[0_10px_24px_-8px_rgb(255_122_26/0.8)];
+    @apply bg-action text-white hover:bg-action-light;
   }
 
-  /* Solid blue: the phone buttons, so orange stays for "start" */
+  /* Solid midnight: the phone buttons, beside the blue "start" */
   .btn-blue {
-    @apply bg-brand text-white hover:bg-brand-dark;
+    @apply bg-brand-dark text-white hover:bg-black;
   }
 
   .btn-secondary {
@@ -106,7 +106,7 @@
     @apply bg-gold text-ink hover:bg-gold-dark;
   }
 
-  /* Secondary button on blue or navy, or on a photo under a dark overlay */
+  /* Secondary button on midnight or blue, or on a photo under a dark overlay */
   .btn-outline-light {
     @apply border-2 border-white/85 text-white hover:bg-white hover:text-brand-dark;
   }

diff --git a/src/widgets/mobile-action-bar/ui.tsx b/src/widgets/mobile-action-bar/ui.tsx
@@ -16,7 +16,7 @@ export function MobileActionBar({ action }: { action: MobileAction }) {
   return (
     <aside
       aria-label={mobileBar.label}
-      className={`fixed inset-x-0 bottom-0 z-30 border-t border-line bg-paper/95 px-4 pb-[max(0.75rem,env(safe-area-inset-bottom))] pt-3 shadow-[0_-6px_20px_rgba(16,42,110,0.10)] backdrop-blur-md transition-[transform,visibility] duration-200 md:hidden ${
+      className={`fixed inset-x-0 bottom-0 z-30 border-t border-line bg-paper/95 px-4 pb-[max(0.75rem,env(safe-area-inset-bottom))] pt-3 shadow-[0_-6px_20px_rgba(35,42,53,0.10)] backdrop-blur-md transition-[transform,visibility] duration-200 md:hidden ${
         typing ? "invisible translate-y-full" : "visible"
       }`}
     >

diff --git a/src/entities/area/ui/AreaMap.tsx b/src/entities/area/ui/AreaMap.tsx
@@ -67,7 +67,7 @@ export function AreaMap({
               points={shape.points}
               strokeLinejoin="round"
               className={`stroke-white stroke-[4] transition-colors duration-150 group-hover:fill-gold group-focus-visible:fill-gold ${
-                lit ? "fill-brand" : highlight ? "fill-[#FFF4DC]" : "fill-[#FFE6B0]"
+                lit ? "fill-brand" : highlight ? "fill-[#F6F0E6]" : "fill-[#EADFCC]"
               }`}
             />
             {pinned !== city.slug && <MapLabel name={city.name} x={shape.label[0]} y={shape.label[1]} light={lit} />}

diff --git a/src/shared/config/site.ts b/src/shared/config/site.ts
@@ -13,7 +13,7 @@ export const siteConfig = {
   // The picture shown when a page is shared (Facebook, WhatsApp...) and in JSON-LD. It shows
   // the weekly price, so remake public/og-image.jpg when a price changes, and change `v`:
   // Facebook keeps the old picture for a URL it has already seen.
-  ogImage: "https://washerrent.com/og-image.jpg?v=2026-10-16",
+  ogImage: "https://washerrent.com/og-image.jpg?v=2026-10-16b",
   // The date the page content last changed; used as <lastmod> in the generated sitemap.xml.
   lastUpdated: "2026-10-15",
   phone: {

diff --git a/src/app/root.tsx b/src/app/root.tsx
@@ -117,7 +117,7 @@ export function Layout({ children }: { children: ReactNode }) {
         <meta charSet="utf-8" />
         <meta name="viewport" content="width=device-width, initial-scale=1.0" />
         <Meta />
-        <meta name="theme-color" content="#FFFBF5" />
+        <meta name="theme-color" content="#F4EEE4" />
         <meta property="og:site_name" content={siteConfig.companyName} />
         <meta property="og:image" content={ogImage} />
         <meta property="og:image:alt" content={i18n.d.chrome.ogImageAlt} />

diff --git a/src/app/chrome.tsx b/src/app/chrome.tsx
@@ -71,6 +71,6 @@ export function SiteChrome({
 }
 
 export const fontStylesheet =
-  "https://fonts.googleapis.com/css2?family=Inter:wght@400;500;600&family=Poppins:wght@600;700;800&display=swap";
+  "https://fonts.googleapis.com/css2?family=Inter:wght@400;500;600;700;800&display=swap";
 
 export const ogImage = siteConfig.ogImage;
